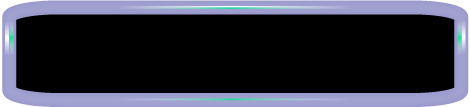
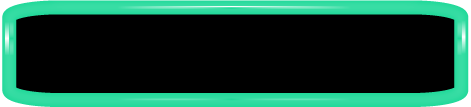
New Sprites
+Tank & pieces for animating (later)
+Changed colors of some GUI elements

diff --git a/Doomsday/Doomsday/HelloWorldLayer.mm b/Doomsday/Doomsday/HelloWorldLayer.mm
@@ -424,7 +424,7 @@ enum {
     
     [settingsMenu alignItemsVertically];
 	
-    settingPane = [CCSprite spriteWithFile:@"levelselectpanel-14.png"];
+    settingPane = [CCSprite spriteWithFile:@"levelselectpanel.png"];
     settingPane.position = ccp(size.width/2, size.height/2);
     
     CCMenuItemSprite* closeButton = [uiLayer makeButtonWithText:@"x" ShapeID:3 x:40 y:size.height - 70];
